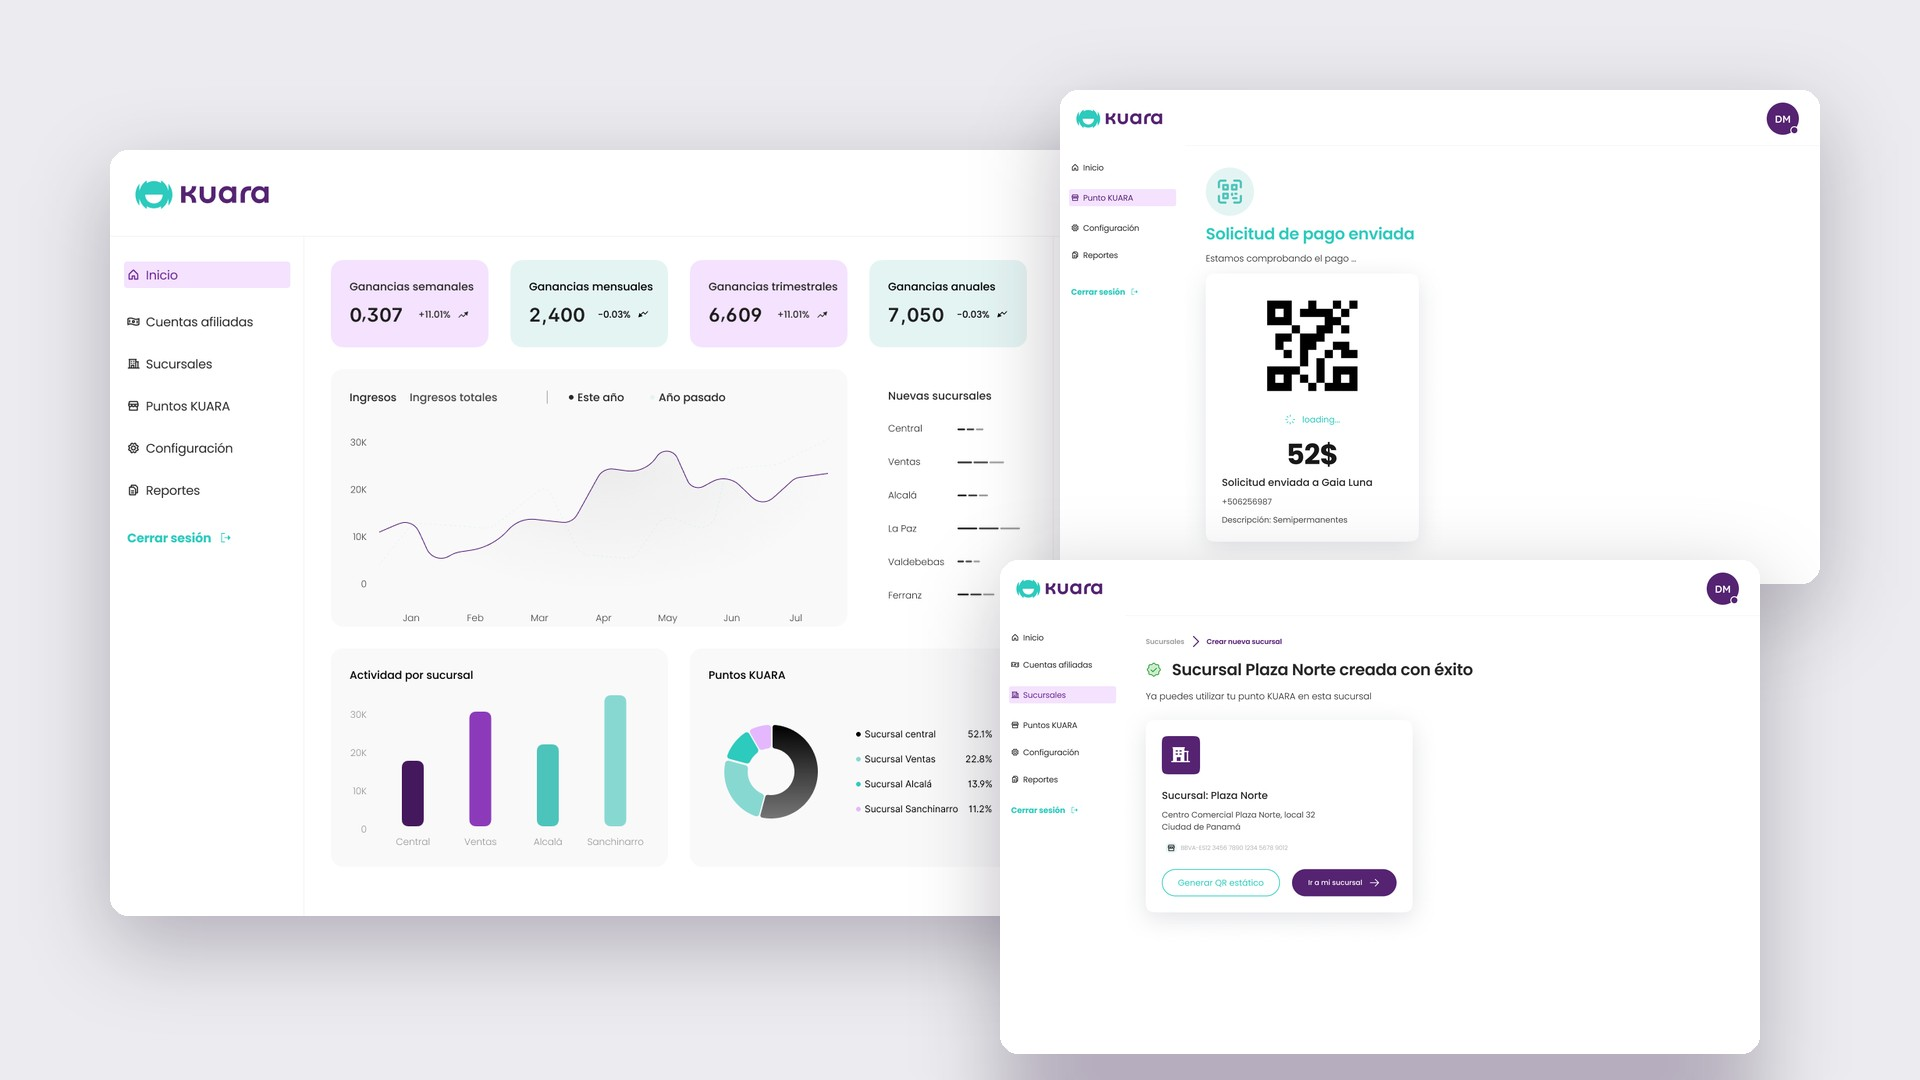
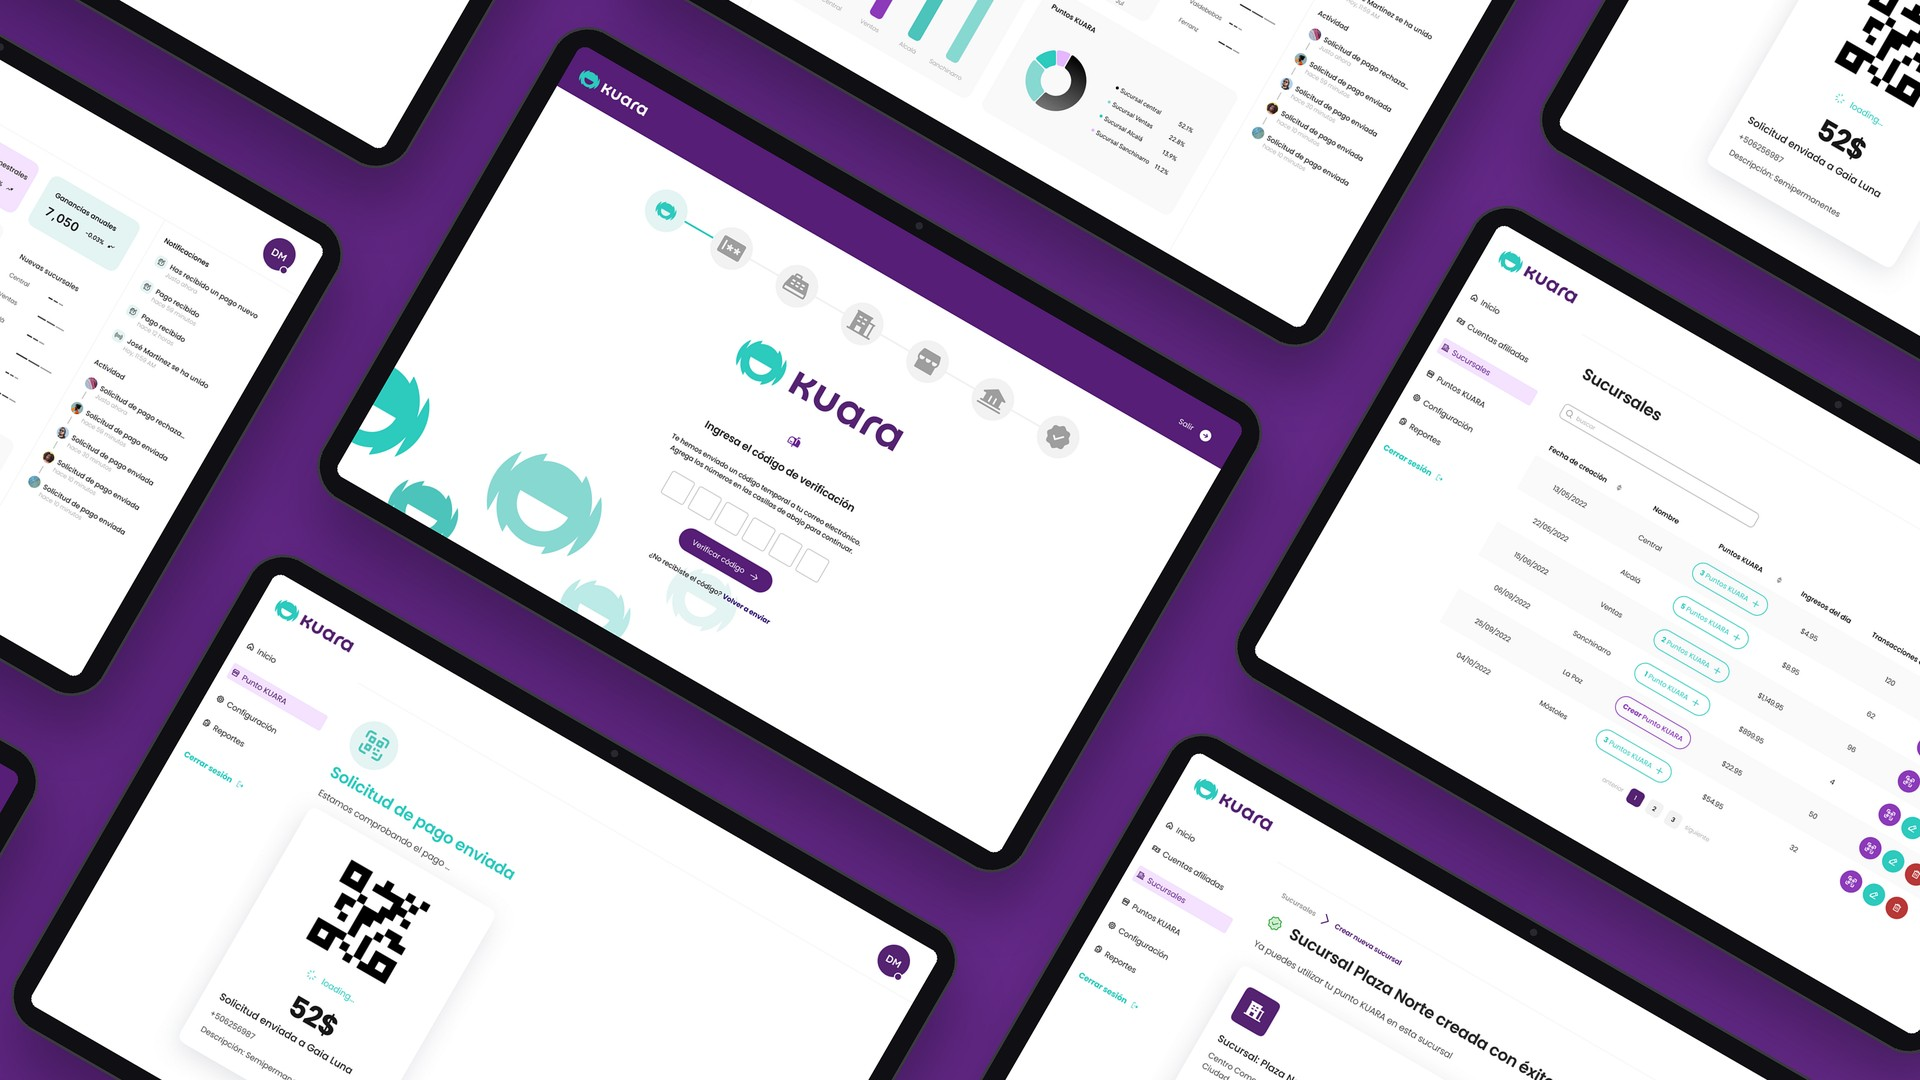
Kuara: portada y tarjeta con mockups al estilo de PinsXP
- Pantallas reales dentro de tablets con bisel, inclinadas en diagonal sobre
  el morado de Kuara (Purple KUARA/01), como los móviles de PinsXP sobre su verde
- Nueva pantalla de sucursales exportada de Figma
- scripts/kuara-mockups.py regenera portada (1920x1080) y retrato (1365x2048)

Claude-Session: https://claude.ai/code/session_01N3PzNDN6i8ffJg9tCN8Eic

diff --git a/scripts/kuara-mockups.py b/scripts/kuara-mockups.py
@@ -1,0 +1,51 @@
+# Builds the Kuara cover (1920x1080) and portrait (1365x2048) from the Figma screen exports:
+# landscape tablets tilted on Kuara purple, in the style of the PinsXP cover.
+# Run from the repo root: python3 scripts/kuara-mockups.py
+import os
+from PIL import Image, ImageDraw, ImageFilter
+A=os.path.join(os.path.dirname(os.path.abspath(__file__)), '../src/assets/projects/kuara/')
+PURPLE=(106,44,143)     # Purple KUARA/01
+DEEP=(76,24,108)
+
+def screen(name):
+    return Image.open(A+name).convert('RGB')
+
+def device(img, W):
+    """Screen inside a dark display bezel, like a tablet in landscape."""
+    H=round(img.height*W/img.width); img=img.resize((W,H),Image.LANCZOS)
+    b=round(W*0.03); R=round(W*0.05); r=round(W*0.012)
+    out=Image.new('RGBA',(W+2*b,H+2*b),(0,0,0,0)); d=ImageDraw.Draw(out)
+    d.rounded_rectangle((0,0,out.width-1,out.height-1),R,fill=(58,58,64))          # metal edge
+    d.rounded_rectangle((4,4,out.width-5,out.height-5),R-4,fill=(16,16,20))         # glass bezel
+    m=Image.new('L',(W,H),0); ImageDraw.Draw(m).rounded_rectangle((0,0,W-1,H-1),r,fill=255)
+    out.paste(img,(b,b),m)
+    cx=out.width//2; d.ellipse((cx-5,b//2-5,cx+5,b//2+5),fill=(40,40,48))            # camera
+    return out
+
+def compose(size, angle=-30, W=1150):
+    big=Image.new('RGBA',size,PURPLE+(255,))
+    # soft diagonal light, like the gradient behind the PinsXP phones
+    g=Image.linear_gradient('L').resize(size).rotate(90)
+    big=Image.composite(big, Image.new('RGBA',size,DEEP+(255,)), g.point(lambda v: 150+v*105//255))
+    order=['dashboard.png','onboarding.png','qr-enviado.png','sucursales.png','sucursal-creada.png','qr-solicitud.png']
+    gap=110; dw=device(screen(order[0]),W).width; dh=round(dw*0.66)
+    cols=range(-1, size[0]//(dw+gap)+2)
+    i=0
+    for c in cols:
+        x=c*(dw+gap); off=(c%2)*(dh//2+gap//2)
+        for row in range(-1, size[1]//(dh+gap)+2):
+            y=row*(dh+gap)+off-dh//3
+            dev=device(screen(order[i%len(order)]),W); i+=1
+            sh=Image.new('RGBA',dev.size,(20,4,32,150)); sh.putalpha(dev.split()[3].point(lambda v: 150 if v else 0))
+            layer=Image.new('RGBA',size,(0,0,0,0)); layer.paste(sh,(x+30,y+50),sh)
+            big.alpha_composite(layer.filter(ImageFilter.GaussianBlur(45)))
+            big.alpha_composite(dev,(x,y))
+    return big.rotate(angle, resample=Image.BICUBIC, fillcolor=PURPLE+(255,))
+
+def crop(img, w, h, dx=0, dy=0):
+    cx,cy=img.width//2+dx, img.height//2+dy
+    return img.crop((cx-w//2, cy-h//2, cx-w//2+w, cy-h//2+h)).convert('RGB')
+
+big=compose((4600,4600))
+crop(big,2880,1620,dx=-120,dy=60).resize((1920,1080),Image.LANCZOS).save(A+"cover.jpg",quality=90)
+crop(big,1820,2730,dx=-150,dy=-200).resize((1365,2048),Image.LANCZOS).save(A+"portrait.jpg",quality=90)
